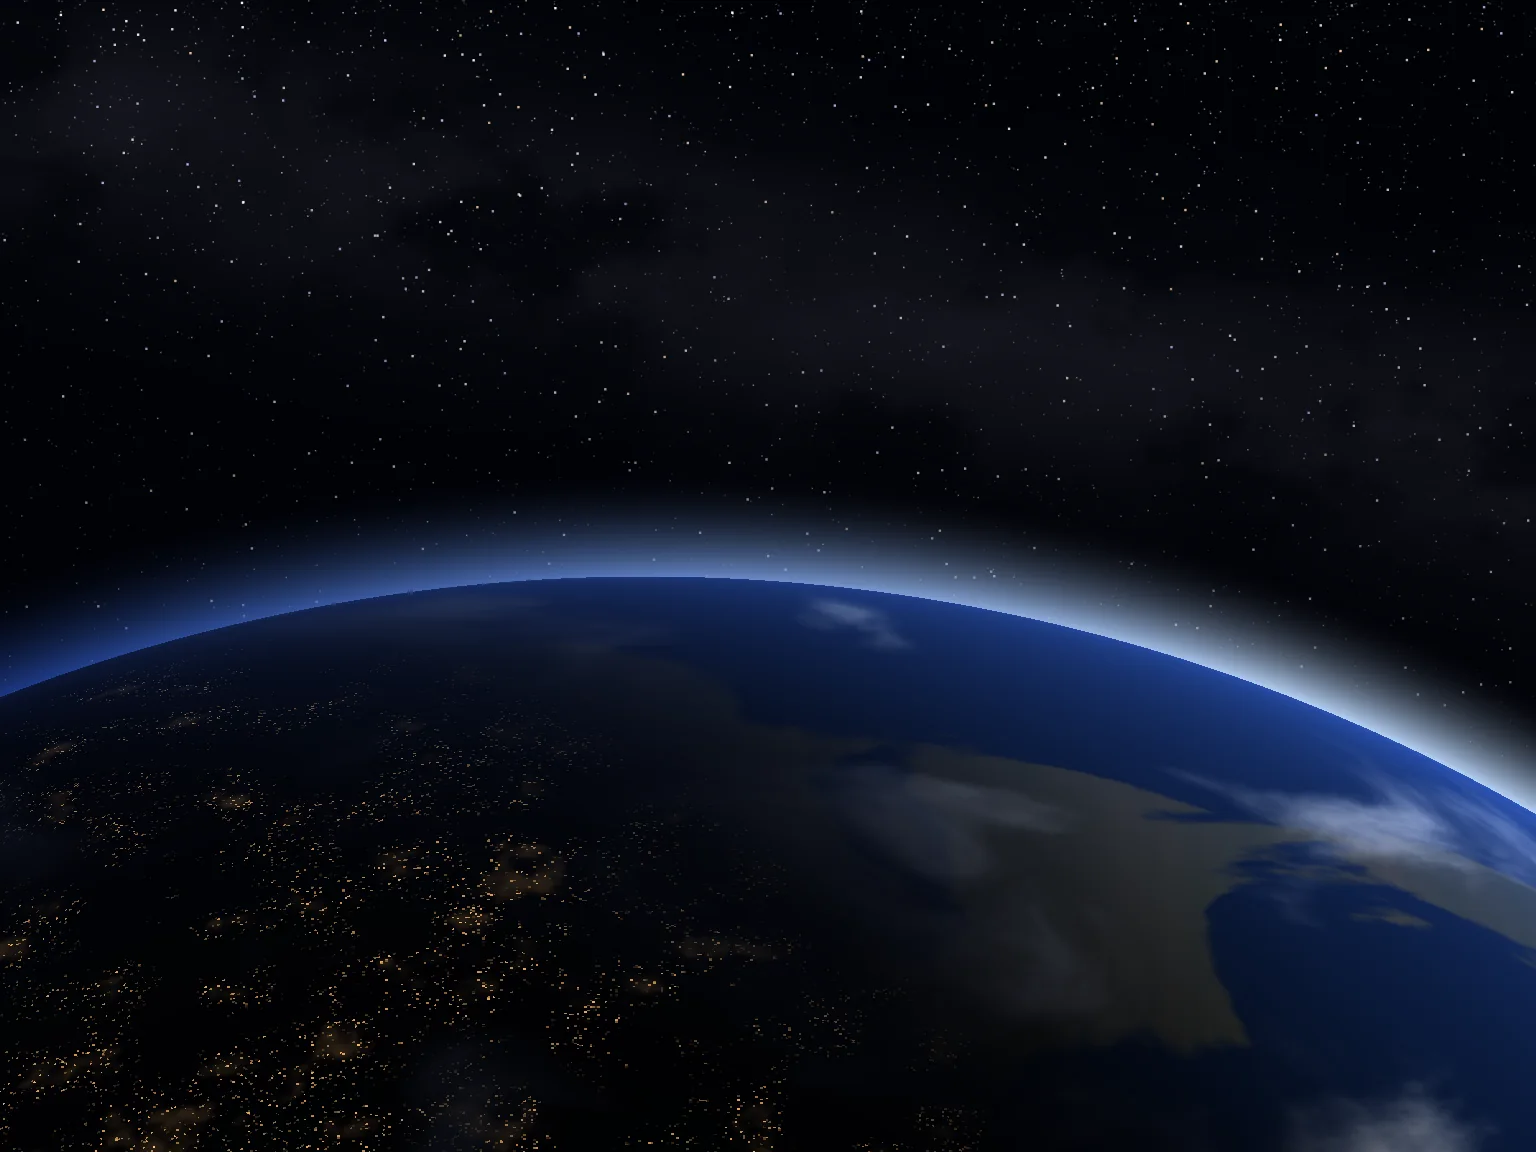
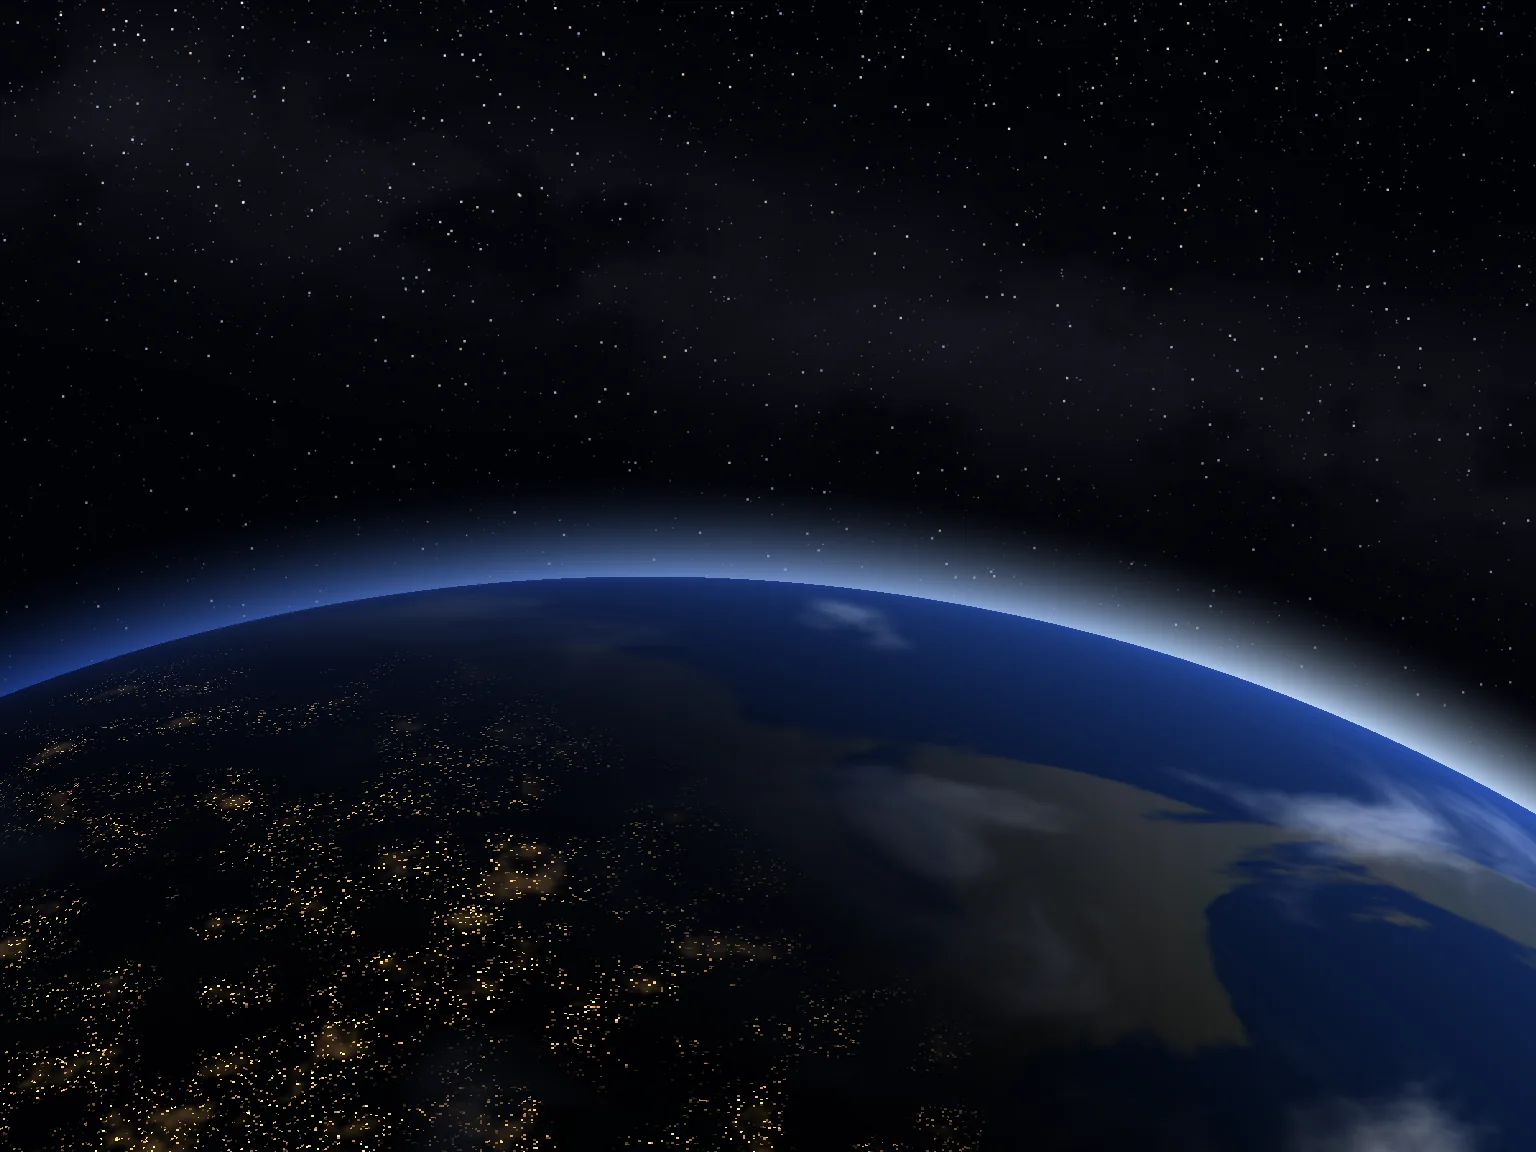
Window views: city blocks with shaded walls, glass grids, floors lit together and roof masts; brighter city lights on the night side of Earth; the room photo's light falloff weaker; snow drawn in three fills a frame
Claude-Session: https://claude.ai/code/session_01MQWzxXJ1uKnFjDVzCDq6Dw

Changed region(s): [[0.2812, 0.7812, 0.3125, 0.8125]]

diff --git a/js/room/scenes.js b/js/room/scenes.js
@@ -188,29 +188,41 @@
 
   // ---------------------------------------------------------------- city blocks, near to far
   // one layer of buildings: tops from base - hgt, facades a touch lighter than col with lit windows
-  function city(c0, w, h, r, { base, h0, h1, col, edge, lit, wins, blur = 0, ww = 0.006, gap = 0.012, signs = null, tops = 0.3 }) {
+  // one layer of buildings: each a block shaded from its sky-lit top down into the haze, a lit
+  // edge on one side, a grid of glass (dark panes a touch lighter than the wall, some lit, whole
+  // floors on or off together), roof boxes, masts with red lights, and neon signs if asked for
+  function city(c0, w, h, r, { base, h0, h1, col, edge, lit, wins, blur = 0, ww = 0.006, gap = 0.012, signs = null, tops = 0.3, glass = 'rgba(160,180,210,.07)' }) {
     soft(c0, blur * w / 1024, c => {
+    const C = hex(col), E = hex(edge);
     let x = -w * 0.02;
     while (x < w * 1.02) {
-      const bw = w * (0.035 + r() * 0.07), top = h * (base - h0 - r() * (h1 - h0));
-      c.fillStyle = col; c.fillRect(x, top, bw, h - top + 2);
-      // a lighter edge where the sky lights one side
-      c.fillStyle = edge; c.fillRect(x, top, Math.max(1, bw * 0.06), h - top);
-      if (r() < tops) { const tw = bw * (0.3 + r() * 0.4), th = h * (0.01 + r() * 0.03); c.fillStyle = col; c.fillRect(x + (bw - tw) / 2, top - th, tw, th + 1); if (r() < 0.5) c.fillRect(x + bw / 2 - 0.5, top - th - h * 0.04, Math.max(1, w / 1024), h * 0.04); }
-      const wpx = w * ww, gx = w * gap, gy = w * gap * 1.25;
-      for (let wy = top + gy; wy < h - gy; wy += gy) {
-        const rowOn = r() < 0.85;
-        for (let wx = x + gx * 0.6; wx < x + bw - wpx - gx * 0.3; wx += gx) {
-          if (!rowOn || r() > lit) continue;
-          c.globalAlpha = 0.35 + r() * 0.6; c.fillStyle = wins[r() * wins.length | 0];
-          c.fillRect(wx, wy, wpx, wpx * 1.3);
+      const bw = w * (0.03 + r() * 0.07), top = h * (base - h0 - r() * (h1 - h0)), bh = h - top;
+      const g = c.createLinearGradient(0, top, 0, h);
+      const tone = 0.85 + r() * 0.3;
+      g.addColorStop(0, `rgb(${E[0] * tone | 0},${E[1] * tone | 0},${E[2] * tone | 0})`); g.addColorStop(0.35, `rgb(${C[0] * tone | 0},${C[1] * tone | 0},${C[2] * tone | 0})`); g.addColorStop(1, `rgb(${C[0] * 0.85 | 0},${C[1] * 0.85 | 0},${C[2] * 0.85 | 0})`);
+      c.fillStyle = g; c.fillRect(x, top, bw, bh + 2);
+      c.fillStyle = edge; c.globalAlpha = 0.6; c.fillRect(x, top, Math.max(1, bw * 0.05), bh); c.globalAlpha = 1;
+      if (r() < tops) {
+        const tw = bw * (0.3 + r() * 0.4), th = h * (0.01 + r() * 0.025); c.fillStyle = col; c.fillRect(x + (bw - tw) / 2, top - th, tw, th + 1);
+        if (r() < 0.6) { const mh = h * (0.02 + r() * 0.05), mx = x + bw / 2; c.fillRect(mx - 0.5, top - th - mh, Math.max(1, w / 1024), mh); glow(c, mx, top - th - mh, w * 0.004, 'rgba(255,60,50,.6)'); }
+      }
+      // the glass grid: floors and bays
+      const wpx = w * ww * (0.8 + r() * 0.4), gx = w * gap * (0.85 + r() * 0.3), gy = gx * (1.1 + r() * 0.3), floorLit = lit * (0.5 + r());
+      c.fillStyle = glass;
+      for (let wy = top + gy * 0.8; wy < h - gy * 0.5; wy += gy) for (let wx = x + gx * 0.5; wx < x + bw - wpx - gx * 0.2; wx += gx) c.fillRect(wx, wy, wpx, wpx * 1.25);
+      for (let wy = top + gy * 0.8; wy < h - gy * 0.5; wy += gy) {
+        const on = r() < 0.75 ? floorLit : floorLit * 4;
+        for (let wx = x + gx * 0.5; wx < x + bw - wpx - gx * 0.2; wx += gx) {
+          if (r() > on) continue;
+          c.globalAlpha = 0.3 + r() * 0.55; c.fillStyle = wins[r() * wins.length | 0];
+          c.fillRect(wx, wy, wpx, wpx * 1.25);
         }
       }
       c.globalAlpha = 1;
       if (signs && r() < signs.p) {
-        const sc = signs.cols[r() * signs.cols.length | 0], sx = x + bw * (0.2 + r() * 0.5), sy = top + (h - top) * (0.1 + r() * 0.4), vert = r() < 0.6;
+        const sc = signs.cols[r() * signs.cols.length | 0], sx = x + bw * (0.2 + r() * 0.5), sy = top + bh * (0.1 + r() * 0.4), vert = r() < 0.6;
         c.save(); c.shadowColor = sc; c.shadowBlur = w * 0.02; c.fillStyle = sc; c.globalAlpha = 0.9;
-        if (vert) c.fillRect(sx, sy, w * 0.006, h * (0.05 + r() * 0.1)); else c.fillRect(sx - bw * 0.2, sy, bw * 0.5, h * 0.008);
+        if (vert) c.fillRect(sx, sy, w * 0.005, h * (0.05 + r() * 0.1)); else c.fillRect(sx - bw * 0.2, sy, bw * 0.5, h * 0.007);
         c.restore();
       }
       x += bw + r() * w * 0.004;
@@ -253,7 +265,8 @@
         forest(c, w, h, r, { y: u => 1.02, h0: 0.22, h1: 0.34, n: 14 * w / 1024, col: '#070c13', snow: 'rgba(170,186,215,.35)' });
       },
       layer: r => { const f = Array.from({ length: 260 }, () => [r(), r(), 0.03 + r() * 0.05, 0.35 + Math.pow(r(), 3) * 1.1, r() * 9, 0.25 + r() * 0.6]);
-        return (c, w, h, t) => { for (const [x, y, sp, s, ph, a] of f) { const yy = ((y + t * sp) % 1) * h, xx = ((x + Math.sin(t * 0.8 + ph) * 0.015 + t * 0.006) % 1) * w; c.fillStyle = `rgba(235,242,255,${a})`; c.beginPath(); c.arc(xx, yy, s, 0, TAU); c.fill(); } };
+        // three brightnesses, one path each, so a frame is three fills and not 260
+        return (c, w, h, t) => { for (let k = 0; k < 3; k++) { c.fillStyle = `rgba(235,242,255,${0.3 + k * 0.25})`; c.beginPath(); for (const [x, y, sp, s, ph, a] of f) { if (Math.min(2, (a - 0.25) / 0.6 * 3 | 0) !== k) continue; const yy = ((y + t * sp) % 1) * h, xx = ((x + Math.sin(t * 0.8 + ph) * 0.015 + t * 0.006) % 1) * w; c.moveTo(xx + s, yy); c.arc(xx, yy, s, 0, TAU); } c.fill(); } };
       } },
 
     // ---- the night side of Earth from orbit: the limb, the dawn line, cities, clouds, the airglow
@@ -303,7 +316,7 @@
           const night = 1 - smooth(-0.15, 0.05, sun);
           if (night > 0 && land > 0.5) {
             const cn = fbm3(px * 30, py * 30, pz * 30, 71, 4), spark = hash3(Math.floor(px * 700), Math.floor(py * 700), Math.floor(pz * 700), 72);
-            const L = (smooth(0.62, 0.85, cn) * 0.18 + (spark > 0.93 ? spark - 0.93 : 0) * 14 * smooth(0.42, 0.62, cn)) * night * (1 - cloud * 0.85) * 255;
+            const L = (smooth(0.62, 0.85, cn) * 0.28 + (spark > 0.92 ? spark - 0.92 : 0) * 20 * smooth(0.42, 0.62, cn)) * night * (1 - cloud * 0.85) * 255;
             rr += L; gg += L * 0.72; bb += L * 0.38;
           }
           // the faint glow of moonlit cloud tops on the night side
@@ -569,13 +582,14 @@
         const r = rng(19);
         sky(c, w, h, [[0, '#4a525e'], [0.5, '#7a8590'], [1, '#8f98a2']]);
         clouds(c, w, h, 20, { y0: 0, y1: h * 0.55, cover: 0.4, lit: '#9aa4b0', dark: '#3a414c', alpha: 0.7, sx: 2, sy: 6 });
-        const wins = ['#ffd9a0', '#ffe8c4', '#f2f4ff'];
-        city(c, w, h, r, { base: 0.72, h0: 0.1, h1: 0.45, col: '#76808b', edge: '#7f8994', lit: 0.12, wins, blur: 2.2, tops: 0.4 });
-        mist(c, w, h, 21, h * 0.4, h * 0.85, '#8a949e', 0.5, 0.7);
-        city(c, w, h, r, { base: 0.82, h0: 0.08, h1: 0.38, col: '#5d6670', edge: '#6a737d', lit: 0.18, wins, blur: 1.4, ww: 0.007, gap: 0.014 });
-        mist(c, w, h, 22, h * 0.55, h * 0.95, '#7c858f', 0.4, 0.7);
-        city(c, w, h, r, { base: 0.95, h0: 0.12, h1: 0.4, col: '#3f464e', edge: '#4c545c', lit: 0.25, wins, blur: 0.6, ww: 0.009, gap: 0.018 });
-        city(c, w, h, r, { base: 1.12, h0: 0.15, h1: 0.3, col: '#262b31', edge: '#30363d', lit: 0.3, wins, ww: 0.012, gap: 0.024 });
+        const wins = ['#ffd9a0', '#ffe8c4', '#f2f4ff', '#ffcf86'];
+        city(c, w, h, r, { base: 0.66, h0: 0.12, h1: 0.42, col: '#7a848f', edge: '#8a949e', lit: 0.06, wins, blur: 2.4, tops: 0.4, ww: 0.0035, gap: 0.007 });
+        mist(c, w, h, 21, h * 0.35, h * 0.8, '#8a949e', 0.55, 0.7);
+        city(c, w, h, r, { base: 0.76, h0: 0.1, h1: 0.4, col: '#67707a', edge: '#78818b', lit: 0.1, wins, blur: 1.6, ww: 0.0045, gap: 0.009 });
+        mist(c, w, h, 22, h * 0.5, h * 0.9, '#7c858f', 0.45, 0.7);
+        city(c, w, h, r, { base: 0.9, h0: 0.12, h1: 0.42, col: '#474e56', edge: '#59616a', lit: 0.16, wins, blur: 0.8, ww: 0.006, gap: 0.012 });
+        mist(c, w, h, 23, h * 0.7, h, '#6d767f', 0.3, 0.8);
+        city(c, w, h, r, { base: 1.1, h0: 0.15, h1: 0.32, col: '#2a2f35', edge: '#3a4047', lit: 0.2, wins, ww: 0.008, gap: 0.016 });
       },
       layer: r => { const drops = Array.from({ length: 40 }, () => [r(), r(), 0.02 + r() * 0.08, 0.8 + r() * 1.4]); const streaks = Array.from({ length: 160 }, () => [r(), r(), 0.8 + r()]);
         return (c, w, h, t) => {
@@ -593,13 +607,13 @@
         clouds(c, w, h, 32, { y0: 0, y1: h * 0.5, cover: 0.48, lit: '#7a2a66', dark: '#120818', alpha: 0.75, sx: 2, sy: 6 });
         glow(c, w * 0.65, h * 0.75, w * 0.6, 'rgba(255,60,160,.22)');
         const wins = ['#ff5fae', '#5fe6ff', '#b88bff', '#ffd27a', '#ffe9d0'], signs = { p: 0.5, cols: ['#ff3d9a', '#3ee6ff', '#b46bff', '#ffcf5a'] };
-        city(c, w, h, r, { base: 0.7, h0: 0.12, h1: 0.5, col: '#1c0e2c', edge: '#2a1438', lit: 0.18, wins, blur: 2, signs });
+        city(c, w, h, r, { base: 0.7, h0: 0.12, h1: 0.5, col: '#1c0e2c', edge: '#2e1640', lit: 0.12, wins, blur: 2, signs, ww: 0.004, gap: 0.008, glass: 'rgba(200,120,220,.05)' });
         mist(c, w, h, 33, h * 0.45, h * 0.9, '#5a1c50', 0.45, 0.7);
-        city(c, w, h, r, { base: 0.86, h0: 0.1, h1: 0.42, col: '#120820', edge: '#1e0f2c', lit: 0.24, wins, blur: 1, ww: 0.007, gap: 0.014, signs });
+        city(c, w, h, r, { base: 0.86, h0: 0.1, h1: 0.42, col: '#120820', edge: '#22112f', lit: 0.16, wins, blur: 1, ww: 0.0055, gap: 0.011, signs, glass: 'rgba(200,120,220,.05)' });
         // the 10000 sign on a tower
         c.save(); c.shadowColor = '#3ee6ff'; c.shadowBlur = w * 0.025; c.strokeStyle = '#8ff4ff'; c.lineWidth = w * 0.003; c.font = `700 ${w * 0.034}px ${K2.MONO}`; c.strokeText('10000', w * 0.16, h * 0.44); c.restore();
         mist(c, w, h, 34, h * 0.65, h, '#4a1440', 0.35, 0.8);
-        city(c, w, h, r, { base: 1.08, h0: 0.15, h1: 0.32, col: '#07040c', edge: '#120a1a', lit: 0.3, wins, ww: 0.011, gap: 0.022, signs });
+        city(c, w, h, r, { base: 1.08, h0: 0.15, h1: 0.32, col: '#07040c', edge: '#140b1e', lit: 0.2, wins, ww: 0.008, gap: 0.016, signs, glass: 'rgba(200,120,220,.05)' });
       },
       layer: r => { const drops = Array.from({ length: 160 }, () => [r(), r(), 0.6 + r() * 0.8]);
         return (c, w, h, t) => {

diff --git a/js/room/tier-view.js b/js/room/tier-view.js
@@ -196,7 +196,7 @@ window.RoomView = (() => {
       r += (r * tR - r) * tint; gg += (gg * tG - gg) * tint; b += (b * tB - b) * tint;
       // the photo's light falloff across the glass
       const lo = Math.min(1.5, Math.max(0.6, lum(Lo, i) / Math.max(4, mO)));
-      const lk = 1 + (lo - 1) * 0.5;
+      const lk = 1 + (lo - 1) * 0.35;
       r *= lk; gg *= lk; b *= lk;
       // depth haze, a little thicker low down where the view is farthest off
       const hz = haze + 0.08 * y;
